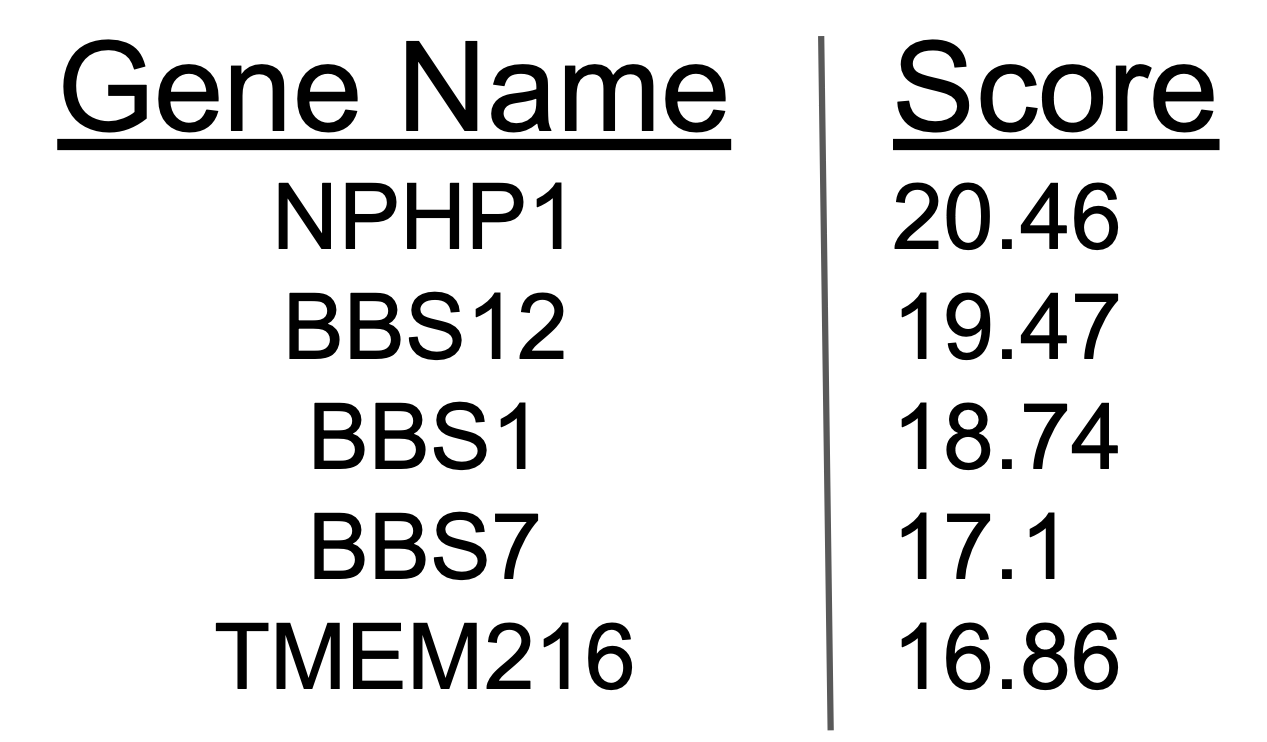
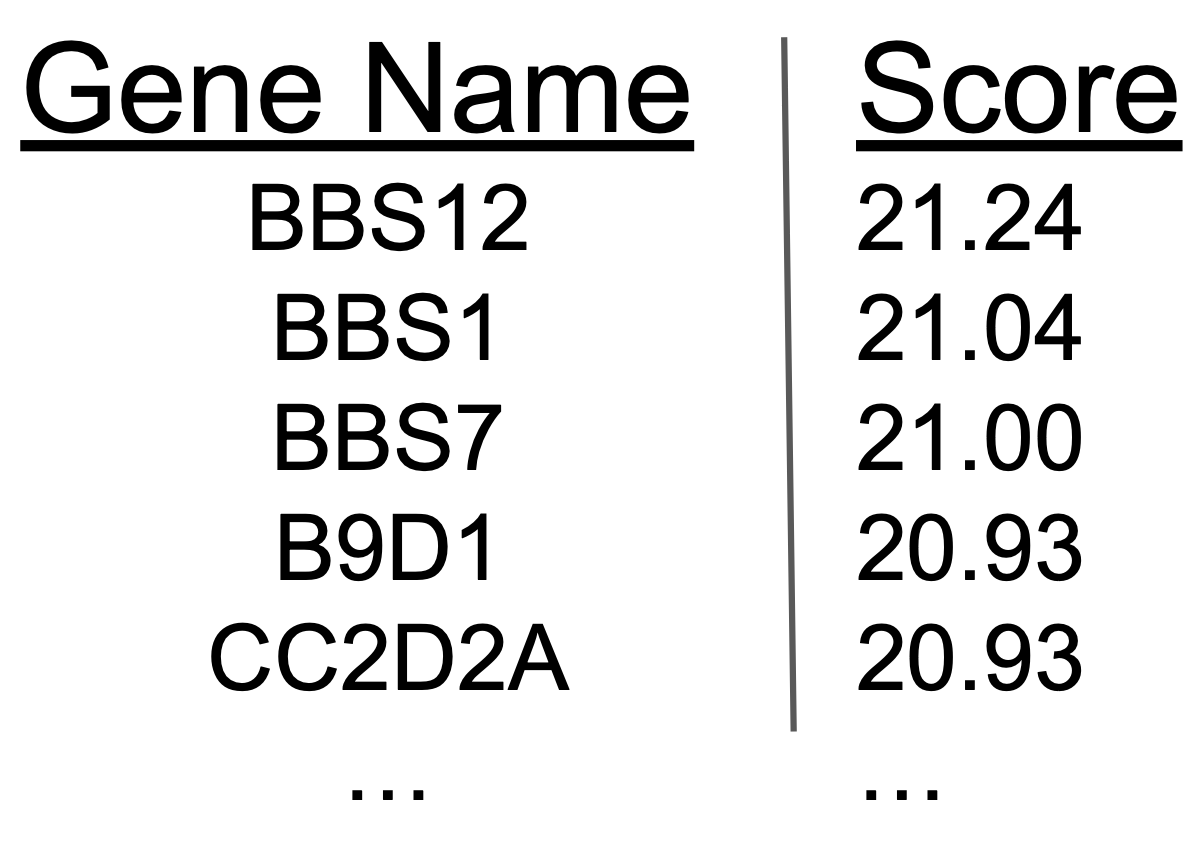
Changes due to fix in how PyGenePlexus scaled the data (#57)
Needed to push a new version of PyGenePlexus because the data wasn't
being scaled correctly. Some changes that needed changing here are

- [x] update PyGenePlexus version used by GCP functions
- [x] update landing page figures as results are slightly different now
- [x] update ReadTheDoc links everywhere
- [x] change out the data in the GCP bucket as PreTrainedWeight files
are now different

diff --git a/frontend/src/pages/NewAnalysis.tsx b/frontend/src/pages/NewAnalysis.tsx
@@ -263,7 +263,7 @@ const NewAnalysisPage = () => {
   };
 
   /** limit options based on species */
-  /** https://pygeneplexus.readthedocs.io/en/v2.0.2/notes/data.html#preprocessed-data */
+  /** https://pygeneplexus.readthedocs.io/en/v2.0.4/notes/data.html#preprocessed-data */
   const filteredNetworkOptions = networkOptions.filter((option) => {
     if (
       option.id === "BioGRID" &&
@@ -302,7 +302,7 @@ const NewAnalysisPage = () => {
     toast(
       <>
         Selected options changed to be compatible with selected species.{" "}
-        <Link to="https://pygeneplexus.readthedocs.io/en/v2.0.2/notes/data.html">
+        <Link to="https://pygeneplexus.readthedocs.io/en/v2.0.4/notes/data.html">
           Learn more
         </Link>
         .
@@ -483,7 +483,7 @@ const NewAnalysisPage = () => {
                 </>
               }
             />
-            <Link to="https://pygeneplexus.readthedocs.io/en/latest/notes/data.html">
+            <Link to="https://pygeneplexus.readthedocs.io/en/v2.0.4/notes/data.html">
               Learn more
             </Link>
           </Flex>

diff --git a/frontend/src/pages/About.tsx b/frontend/src/pages/About.tsx
@@ -67,7 +67,7 @@ const AboutPage = () => {
               flip
             />
             <Button
-              to="https://pygeneplexus.readthedocs.io/en/v2.0.2/"
+              to="https://pygeneplexus.readthedocs.io/en/v2.0.4/"
               text="Docs"
               icon={<FaBook />}
               tooltip="Detailed information on how to use the package and how to interpret results"
@@ -88,7 +88,7 @@ const AboutPage = () => {
               flip
             />
             <Button
-              to="https://pygeneplexus.readthedocs.io/en/v2.0.2/notes/faqs.html"
+              to="https://pygeneplexus.readthedocs.io/en/latest/notes/faqs.html"
               text="FAQs"
               icon={<FaQuestion />}
               tooltip="Detailed help on some frequently asked questions"

diff --git a/frontend/src/components/Footer.tsx b/frontend/src/components/Footer.tsx
@@ -23,7 +23,7 @@ const Footer = () => (
       </Link>
       <Link to="/about#terms-of-use">Terms of Use</Link>
       <Link
-        to="https://pygeneplexus.readthedocs.io/en/v2.0.2/appendix/license.html"
+        to="https://pygeneplexus.readthedocs.io/en/v2.0.4/appendix/license.html"
         showArrow={false}
       >
         License

diff --git a/frontend/src/pages/Home.tsx b/frontend/src/pages/Home.tsx
@@ -34,7 +34,7 @@ const HomePage = () => {
         </Flex>
 
         <p className="center">
-          <Link to="https://pygeneplexus.readthedocs.io/en/v2.0.2/notes/faqs.html">
+          <Link to="https://pygeneplexus.readthedocs.io/en/latest/notes/faqs.html">
             Looking for the old GenePlexus?
           </Link>
         </p>

diff --git a/frontend/src/pages/Analysis.tsx b/frontend/src/pages/Analysis.tsx
@@ -136,7 +136,7 @@ const AnalysisPage = () => {
             <>
               <Summary results={results} />
 
-              <Link to="https://pygeneplexus.readthedocs.io/en/v2.0.2/">
+              <Link to="https://pygeneplexus.readthedocs.io/en/v2.0.4/">
                 Learn more
               </Link>
 
